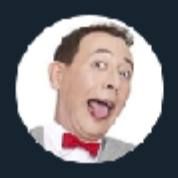
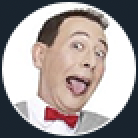
updating footer css

diff --git a/index.html b/index.html
@@ -173,51 +173,52 @@
 
 <footer class="footer">
 
-  <div class="inner-footer-container">
+  <div class="footer-items">
 
-    <div class="footer-description">
-      <img src="img/peewee icon.png" alt="peewee icon">
-      <h2>Peewee Herman</h2>
-      <p>Peewee has over 10 years of experience in the industry. He is our Creative designer, digital designer, 
+    <div class="description">
+      <img class="pfp" src="img/pfp.png" alt="peewee icon">
+      <h2 class="h2-footer">Peewee Herman</h2>
+      <p class="p-description">Peewee has over 10 years of experience in the industry. He is our Creative designer, digital designer, 
         web designer and front-end we devloper. He is also pretty good with a sketch-book. 
         before starting the company Peewee work as a desginer and studio manager for a design house who 
         boasted a number of big name clients.</p>
     </div>
 
     <div class="about-us">
-      <h2>About us</h2>
-      <p>Minions Ipsum potatoo potatooo uuuhhh. Chasy poulet tikka masala jiji wilili hahaha po kass tulilaloo potatoooo. 
+      <h2 class="h2-footer">About us</h2>
+      <p class="p-footer">Minions Ipsum potatoo potatooo uuuhhh. Chasy poulet tikka masala jiji wilili hahaha po kass tulilaloo potatoooo. 
         Bee do bee do bee do chasy ti aamoo! Po kass daa bee do bee do bee do po kas wilili butt chasy. Pepete uuuhhh hahaha 
         gelatooo bello! Bananaaaa aaaaaah butt</p>
     </div>
 
     <div class="social-media">
-      <img src="img/social media.png">
+      <img class="sm-pics" src="img/social media.png">
     </div>
 
     <div class="flickr-photos">
-      <img src="img/minion 1.png">
-      <img src="img/minion 2.png">
-      <img src="img/minion 3.png">
-      <img src="img/minion 4.png">
-      <img src="img/minion 5.png">
-      <img src="img/minion 6.png">
+      <h2 class="h2-footer">Flickr Photos</h2>
+      <img class="minions" src="img/minion 1.png">
+      <img class="minions" src="img/minion 2.png">
+      <img class="minions" src="img/minion 3.png">
+      <img class="minions" src="img/minion 4.png">
+      <img class="minions" src="img/minion 5.png">
+      <img class="minions" src="img/minion 6.png">
     </div>
 
     <div class="recent-tweets">
-      <img src="img/twitter logo.png">
-      <p>@Minions - Ipsum potatoooo potatoooo uuuhhh. Chasy poulet tikka masala jiji wilili hahaha po kass</p>
-      <img src="img/twitter logo.png">
-      <p>@Minions - Ipsum banana potatoooo uuuhhh. Chasy poulet tikka masala jiji wilili hahaha</p>
+      <img class="twitter-logo" src="img/twitter logo.png">
+      <p class="p-footer">@Minions - Ipsum potatoooo potatoooo uuuhhh. Chasy poulet tikka masala jiji wilili hahaha po kass</p>
+      <img class="twitter-logo" src="img/twitter logo.png">
+      <p class="p-footer">@Minions - Ipsum banana potatoooo uuuhhh. Chasy poulet tikka masala jiji wilili hahaha</p>
     </div>
 
     <div class="newsletter">
-      <h2>Newsletter</h2>
-      <p>Minions Ipsum potatoo potatooo uuuhhh. Chasy poulet tikka masala jiji wilili hahaha po kass tulilaloo potatoooo. 
+      <h2 class="h2-footer">Newsletter</h2>
+      <p class="p-footer">Minions Ipsum potatoo potatooo uuuhhh. Chasy poulet tikka masala jiji wilili hahaha po kass tulilaloo potatoooo. 
         Bee do bee do bee do chasy ti aamoo! Po kass daa bee do bee do bee do po kas wilili butt chasy. Pepete uuuhhh</p>
       <form>
         <fieldset>
-            <legend>Subscribe to our email list and we'll keep you informed of new Weebly theme release, updates, exclusive deals and Weebly tutorial.</legend>
+            <legend class="p-footer">Subscribe to our email list and we'll keep you informed of new Weebly theme release, updates, exclusive deals and Weebly tutorial.</legend>
             <label class="email"><input placeholder="Email" type="text" name="Email" id="Email"/></label>
         </fieldset>          
     </form>

diff --git a/css/styles.css b/css/styles.css
@@ -97,38 +97,78 @@ align-items: center;
 }
 
 /*Footer*/
+
 .footer {
-    background-color: rgb(29, 29, 72);
+    background-color: #16242f;
     color: white;
+    padding: 10px;
+    padding-left: 300px;
+    padding-right: 300px;
 }
 
-.author-desc {
-
+.h2-footer {
+    font-size: 15px;
+    margin-top: 0px;
+    white-space: nowrap; 
+    text-overflow: ellipsis;
 }
 
-.hr {
-
+.p-footer {
+    font-size: 12px;
+    font-weight: lighter;
 }
 
 .footer-items {
-display: flex;
-justify-content: space-evenly;
-}
-
-.about-us {
+    display: flex;
+    justify-content: space-evenly;
+    font-family: 'Ubuntu', sans-serif;
 
 }
 
-.flickr-photos {
 
+.minions {
+    display: grid;
+    grid-template-columns: 3fr, 2fr;
+    height: 50px;
+    margin: 3px;
 }
 
-.recent-tweets {
-
+.twitter-logo {
+    height: 30px;
 }
 
-.newsletter {
+.sm-pics {
+    display:flex;
+    height: 40px;
+    justify-content: flex-end;
+}
 
+.description {
+    display: flex;
+    flex-direction: row;
+    align-items: flex-start;
+}
+
+.pfp {
+    height: 60px;
+    margin-right: 10px;
+}
+
+.p-description {
+    display: flex;
+    flex-direction: column;
+    
+    font-size: 12px;
+    font-weight: lighter;
+}
+
+.email {
+  display: block;
+  width: 100%;
+  padding: 10px;
+  box-sizing: border-box;
+  margin-bottom: 10px; 
+  
 }
 
 /* MEDIA QUERIES */
